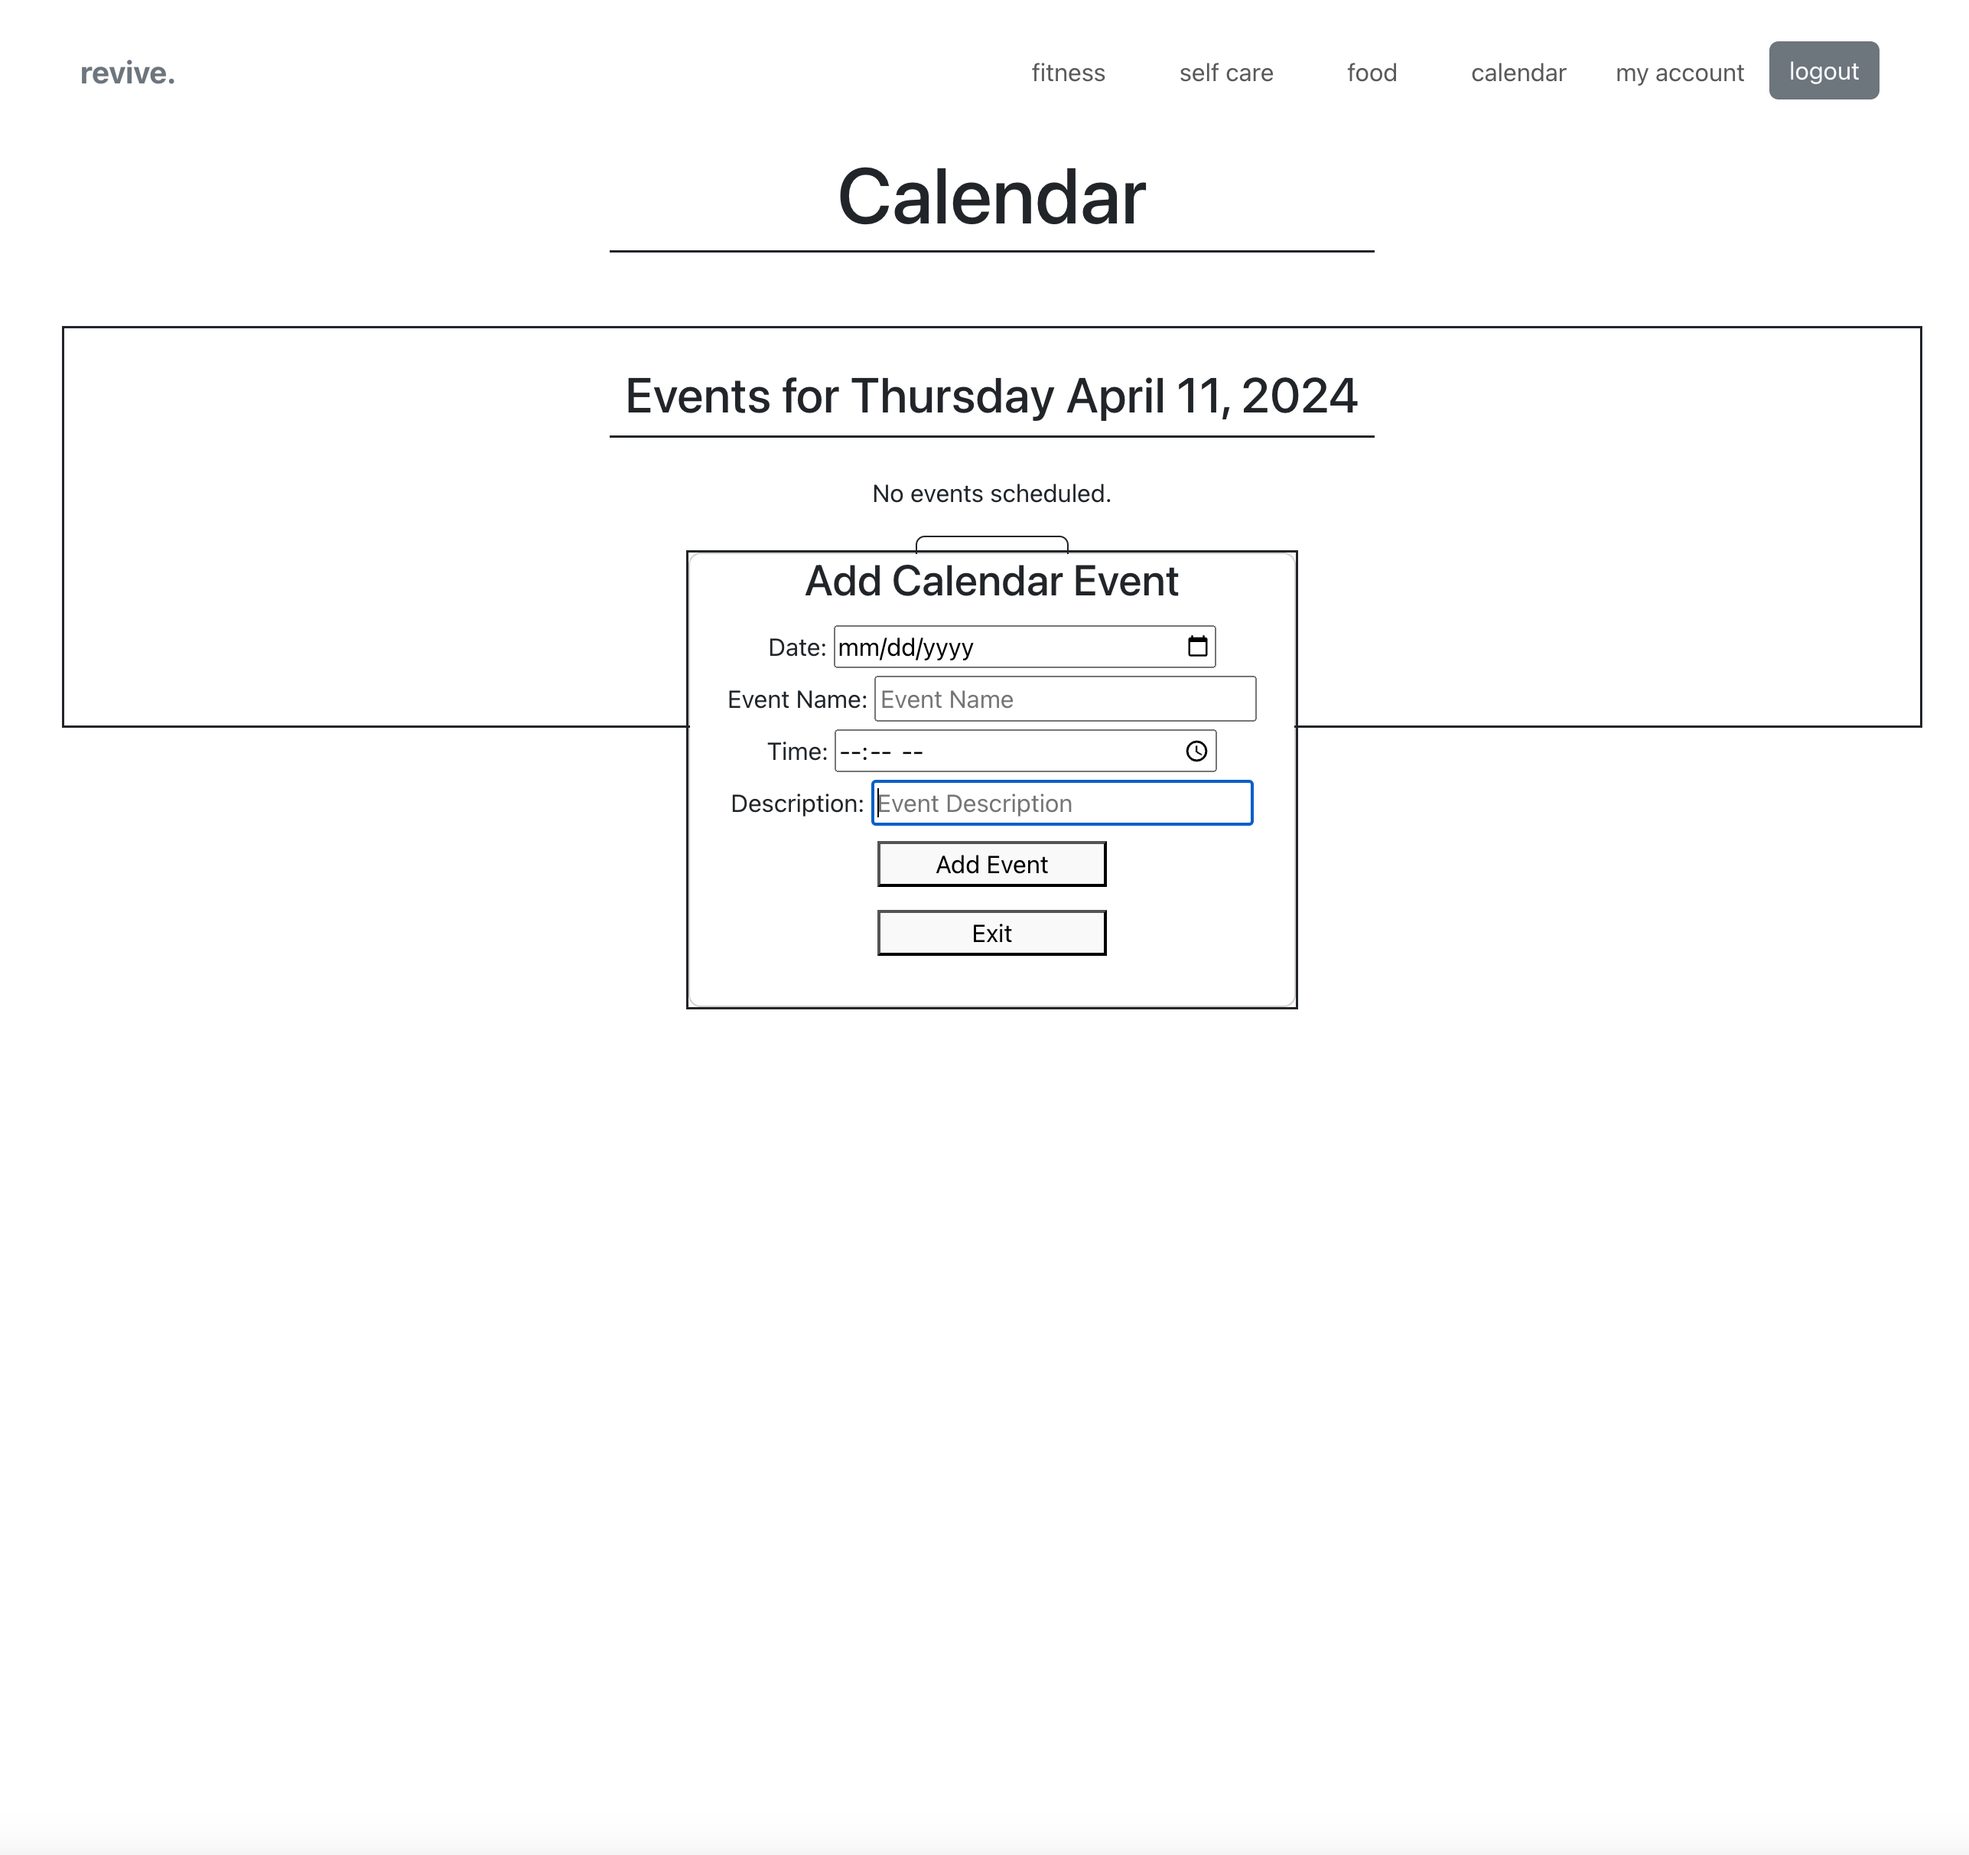
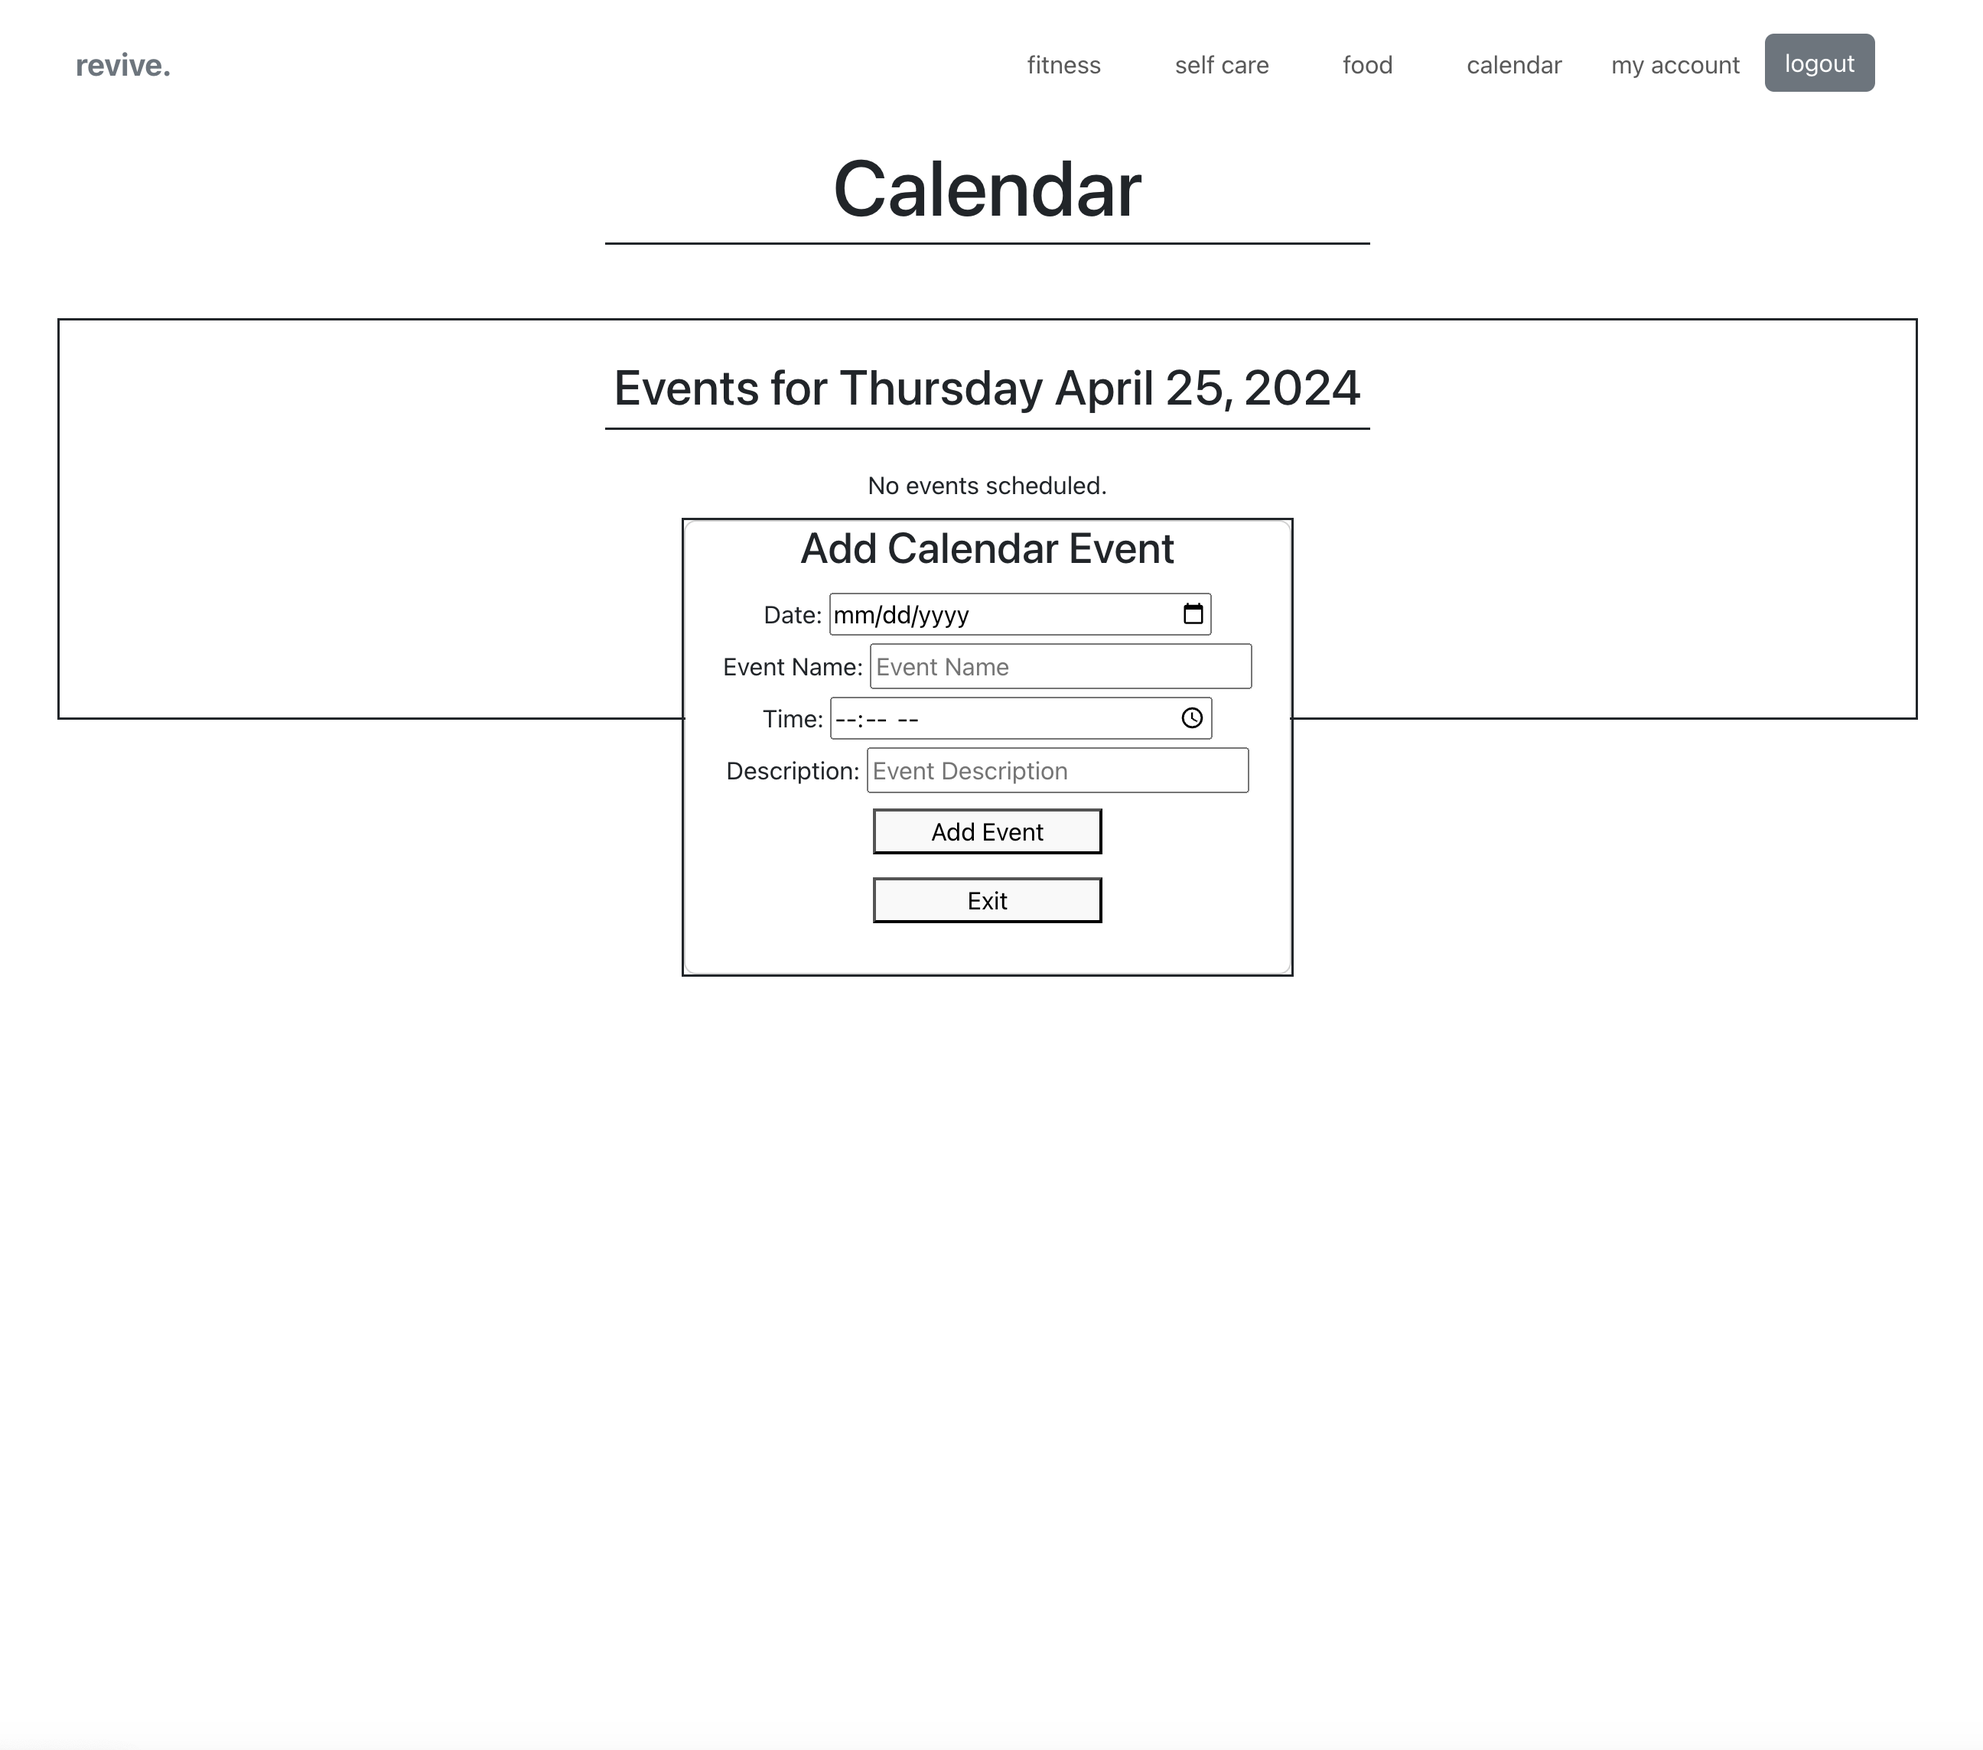
updated project images

diff --git a/client/src/components/Projects.jsx b/client/src/components/Projects.jsx
@@ -7,7 +7,7 @@ import FieldtripFavoritesPage from '../assets/FieldtripFavoritesPage.png'
 import ReviveHomepage from '../assets/ReviveHomepage.png'
 import ReviveCalendar from '../assets/ReviveCalendar.png'
 import ReviveSchedule from '../assets/ReviveSchedule.png'
-import ReviveAccountPage from '../assets/ReviveAccountPage.png'
+import ReviveCalendarForm from '../assets/ReviveCalendarForm.png'
 
 
 
@@ -52,13 +52,14 @@ export default function Projects() {
     <div className="revivePhotos">
     <img className="reviveProjectPhoto" src={ReviveHomepage}/>
     <img className="reviveProjectPhoto" src={ReviveCalendar}/>
+    <img className="reviveProjectPhoto" src={ReviveCalendarForm}/>
     <img className="reviveProjectPhoto" src={ReviveSchedule}/>
-    <img className="reviveProjectPhoto" src={ReviveAccountPage}/>
+   
     </div>
     <p>
     React.js · Vite · Node.js · PostgreSQL · Express.js · Redux · RTK Query · Bootstrap <br/> <br/>
 
-    My teammates and I created Revive as our capstone project for the Grace Hopper Program. Revive is a wellness app that helps users explore and save fitness routines, healthy recipes, and self-care ideas while allowing them to schedule and track their routines with a calendar. I created the calendar component of this app, which allows logged-in users to see a full monthly calendar view and add or delete events for individual calendar days. I also created the “Account” component of the app, which ties all of the app’s sections together by rendering the user’s saved fitness routines, recipes, self-care ideas, and daily schedule all in one place.  <br/>
+    My teammates and I created Revive as our capstone project for the Grace Hopper Program. Revive is a wellness app that helps users explore and save fitness routines, healthy recipes, and self-care ideas while allowing them to schedule and track their routines with a calendar. I created the calendar component of this app, which allows logged-in users to see a full monthly calendar view, add events for specific days using a scheduling form, see their daily schedule, and delete events.  <br/>
 
     <br/> <a className="appLink" href="https://revive-app.onrender.com" target="_blank">Deployed App</a> · <a className="appLink" href="https://github.com/revive-team1/revive-capstone" target="_blank">GitHub Repository </a>
     </p>

diff --git a/client/src/index.css b/client/src/index.css
@@ -241,8 +241,8 @@ font-size: 25px;
 .intro{
   background-color: #f5eee9;
   background-color: #f1f0f5;
-  /* background-color: #414673;
-  color: white; */
+  background-color: #414673;
+  color: white;
   padding-top: 30px;
   padding-bottom: 30px;
   padding-left: 30px;
